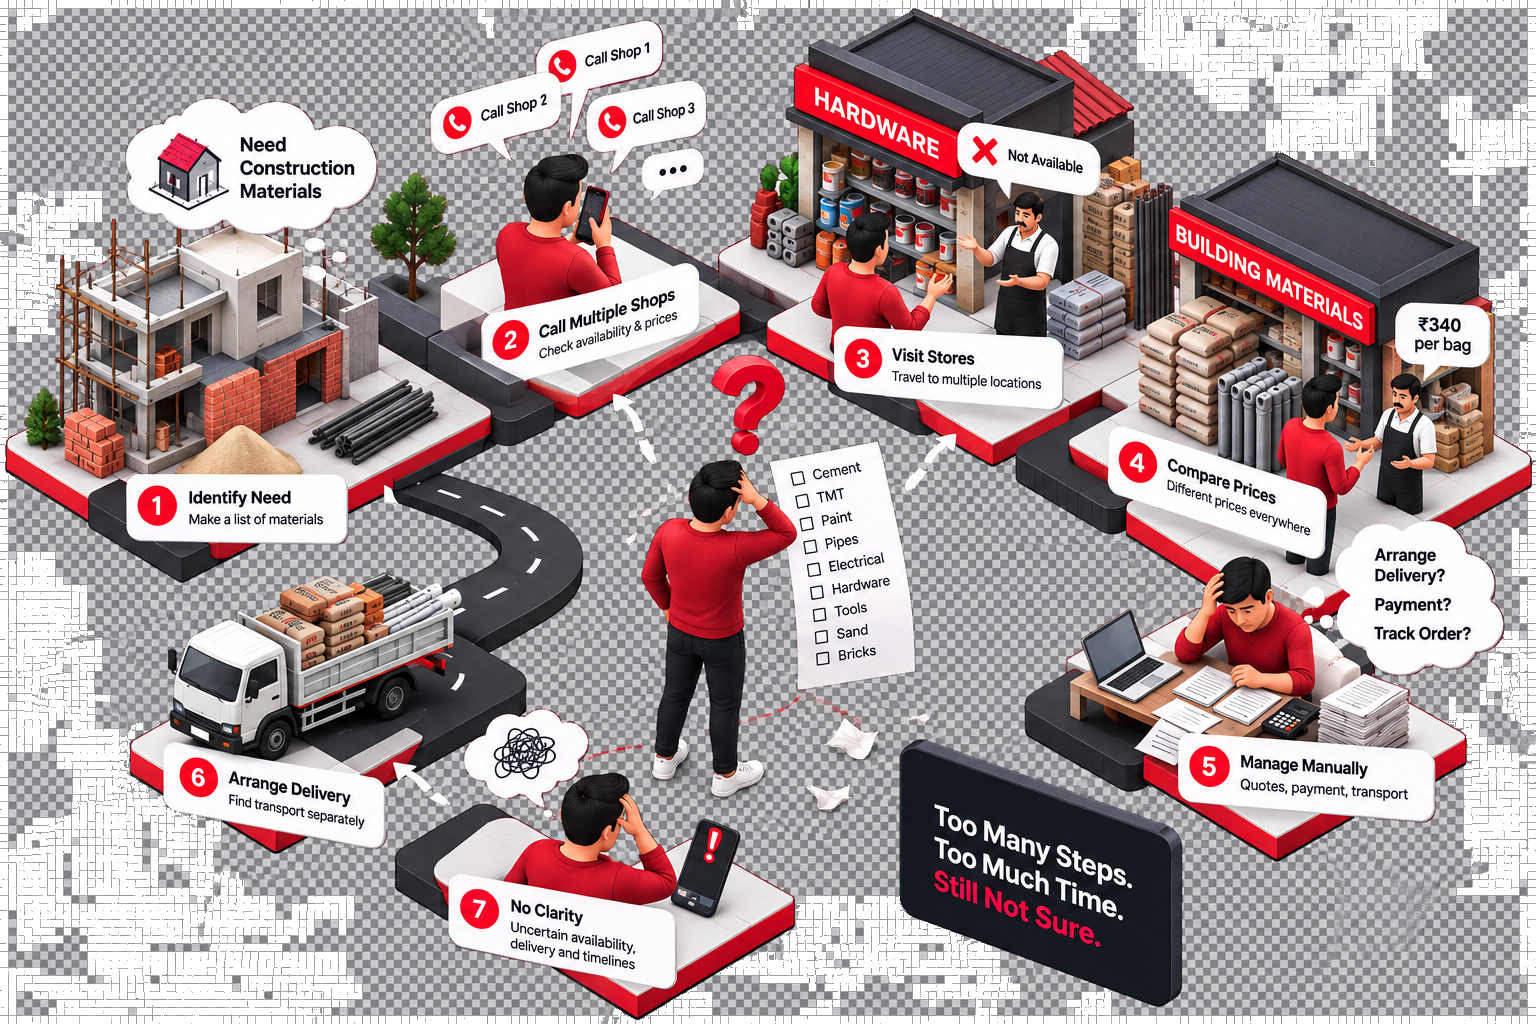
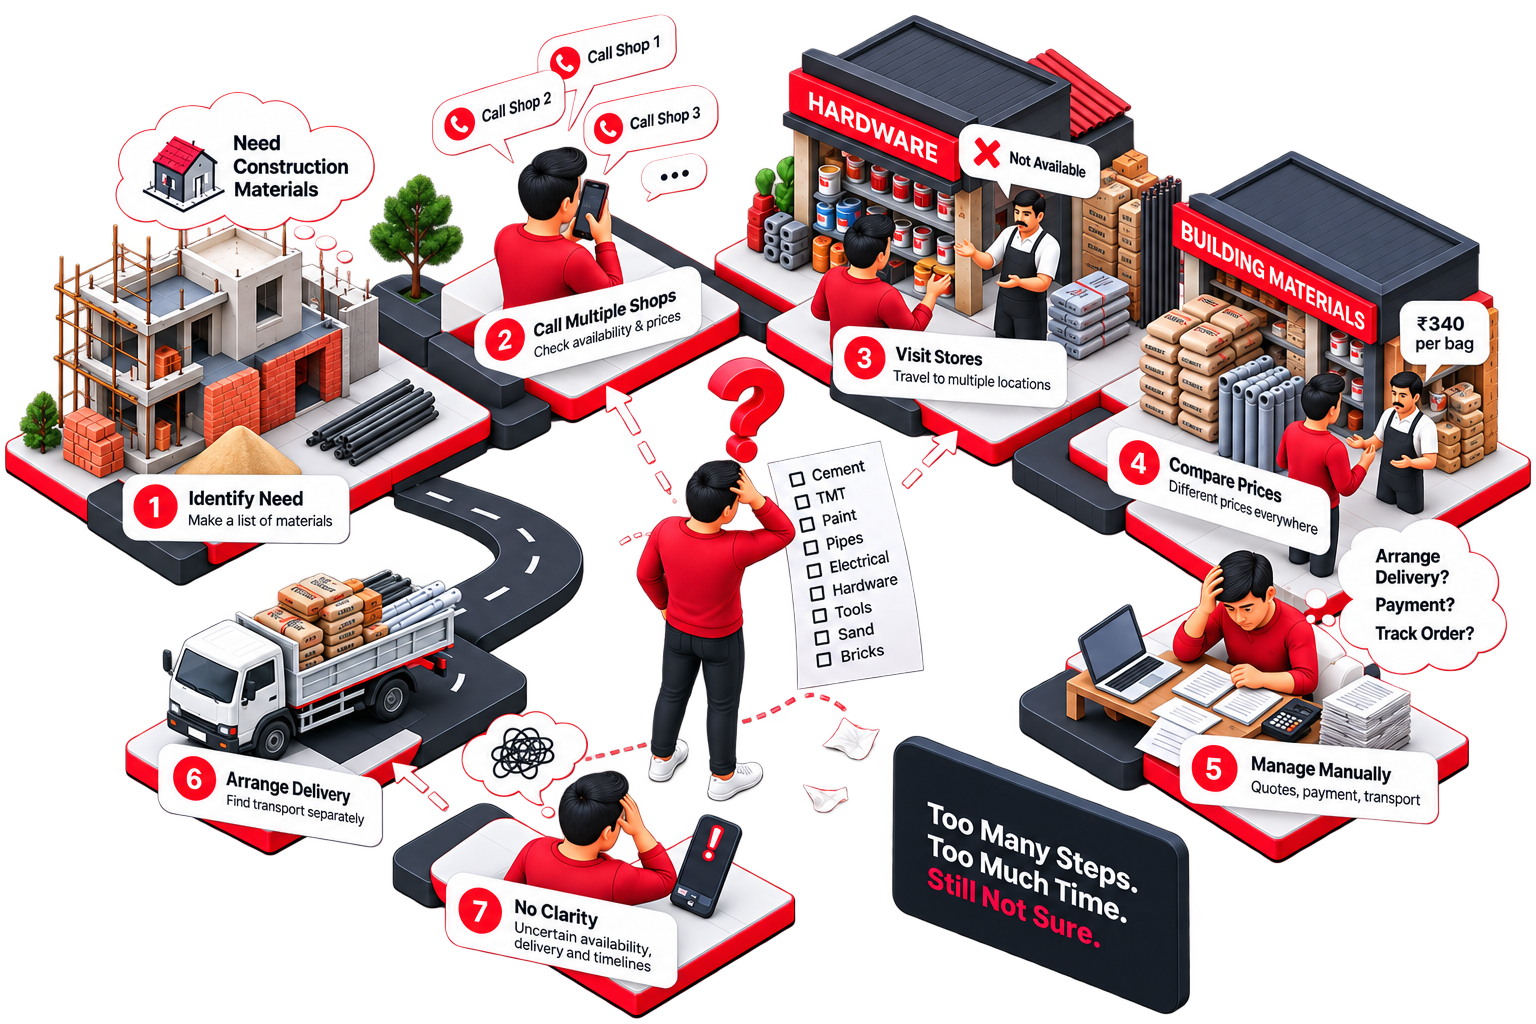
up1

diff --git a/src/sections/ProfessionalSection.tsx b/src/sections/ProfessionalSection.tsx
@@ -6,44 +6,53 @@ import Button from '@/components/Button'
 import { getProfessionalBenefits } from '@/data/benefits'
 import { useLanguage } from '@/i18n'
 
-export default function ProfessionalSection() {
+interface ProfessionalSectionProps {
+  compact?: boolean
+}
+
+export default function ProfessionalSection({ compact = false }: ProfessionalSectionProps) {
   const { t } = useLanguage()
   const professionalBenefits = getProfessionalBenefits(t)
+  const benefits = compact ? professionalBenefits.slice(0, 4) : professionalBenefits
 
   return (
-    <section id="professionals" className="py-20 sm:py-24 lg:py-32">
+    <section id="professionals" className={compact ? 'py-14 sm:py-16 lg:py-20' : 'py-20 sm:py-24 lg:py-32'}>
       <div className="container-flash">
-        <div className="mb-10 flex flex-col justify-between gap-8 lg:flex-row lg:items-end">
+        <div className={`flex flex-col justify-between gap-8 lg:flex-row lg:items-end ${compact ? 'mb-8' : 'mb-10'}`}>
           <SectionHeader eyebrow={t.professional.eyebrow} title={t.professional.title} subtitle={t.professional.subtitle} />
           <Button to="/professionals" icon>
             {t.common.joinAsProfessional}
           </Button>
         </div>
 
-        <RevealStagger className="mb-10 flex flex-wrap gap-2.5" itemSelector=":scope > *" stagger={0.04}>
-          {t.professional.roles.map((r) => (
-            <span key={r} className="rounded-full border border-black/[0.08] bg-white px-4 py-2 text-sm font-semibold text-brand-dark">
-              {r}
-            </span>
-          ))}
-        </RevealStagger>
+        {!compact && (
+          <>
+            <RevealStagger className="mb-10 flex flex-wrap gap-2.5" itemSelector=":scope > *" stagger={0.04}>
+              {t.professional.roles.map((r) => (
+                <span key={r} className="rounded-full border border-black/[0.08] bg-white px-4 py-2 text-sm font-semibold text-brand-dark">
+                  {r}
+                </span>
+              ))}
+            </RevealStagger>
 
-        <Reveal className="mb-12 flex justify-center">
-          <img
-            src="/images/professionals.png"
-            alt="Your customers. Your referral. Your rewards. — the FLASHiT Pro referral app"
-            loading="lazy"
-            className="w-full max-w-4xl"
-          />
-        </Reveal>
+            <Reveal className="mb-12 flex justify-center">
+              <img
+                src="/images/professionals.png"
+                alt="Your customers. Your referral. Your rewards. — the FLASHiT Pro referral app"
+                loading="lazy"
+                className="w-full max-w-4xl"
+              />
+            </Reveal>
+          </>
+        )}
 
-        <Reveal className="mb-12 rounded-card border border-brand-red/20 bg-brand-red/5 p-6 sm:p-8">
+        <Reveal className={`rounded-card border border-brand-red/20 bg-brand-red/5 p-6 sm:p-8 ${compact ? 'mb-8' : 'mb-12'}`}>
           <p className="text-base font-semibold text-brand-dark sm:text-lg">{t.professional.badge}</p>
         </Reveal>
 
         <div className="grid grid-cols-1 gap-10 lg:grid-cols-2">
           <RevealStagger className="grid grid-cols-1 gap-3 sm:grid-cols-2" itemSelector=":scope > *" stagger={0.04}>
-            {professionalBenefits.map((b) => (
+            {benefits.map((b) => (
               <div key={b} className="flex items-start gap-2.5 rounded-btn border border-black/[0.06] bg-white p-4">
                 <span className="mt-0.5 h-1.5 w-1.5 shrink-0 rounded-full bg-brand-red" />
                 <span className="text-sm leading-relaxed text-brand-dark/75">{b}</span>

diff --git a/src/sections/SupplierSection.tsx b/src/sections/SupplierSection.tsx
@@ -6,37 +6,44 @@ import Button from '@/components/Button'
 import { getSupplierBenefits } from '@/data/benefits'
 import { useLanguage } from '@/i18n'
 
-export default function SupplierSection() {
+interface SupplierSectionProps {
+  compact?: boolean
+}
+
+export default function SupplierSection({ compact = false }: SupplierSectionProps) {
   const { t } = useLanguage()
   const supplierBenefits = getSupplierBenefits(t)
+  const benefits = compact ? supplierBenefits.slice(0, 3) : supplierBenefits
 
   return (
-    <section id="suppliers" className="bg-brand-dark py-20 text-white sm:py-24 lg:py-32">
+    <section id="suppliers" className={`bg-brand-dark text-white ${compact ? 'py-14 sm:py-16 lg:py-20' : 'py-20 sm:py-24 lg:py-32'}`}>
       <div className="container-flash">
-        <div className="mb-12 flex flex-col justify-between gap-8 lg:flex-row lg:items-end">
+        <div className={`flex flex-col justify-between gap-8 lg:flex-row lg:items-end ${compact ? 'mb-8' : 'mb-12'}`}>
           <SectionHeader light eyebrow={t.supplier.eyebrow} title={t.supplier.title} subtitle={t.supplier.subtitle} />
           <Button to="/suppliers" icon>
             {t.common.becomeSupplier}
           </Button>
         </div>
 
-        <Reveal className="mb-12 overflow-hidden rounded-card">
-          <img
-            src="/images/suppliers.png"
-            alt="FLASHiT connecting local suppliers with customers, professionals and delivery riders"
-            loading="lazy"
-            className="w-full object-cover"
-          />
-        </Reveal>
+        {!compact && (
+          <Reveal className="mb-12 overflow-hidden rounded-card">
+            <img
+              src="/images/suppliers.png"
+              alt="FLASHiT connecting local suppliers with customers, professionals and delivery riders"
+              loading="lazy"
+              className="w-full object-cover"
+            />
+          </Reveal>
+        )}
 
-        <Reveal className="mb-12 rounded-card border border-brand-red/25 bg-white/[0.04] p-6 sm:p-8" delay={0.1}>
+        <Reveal className={`rounded-card border border-brand-red/25 bg-white/[0.04] p-6 sm:p-8 ${compact ? 'mb-8' : 'mb-12'}`} delay={0.1}>
           <p className="text-xl font-bold sm:text-2xl">
             {t.supplier.quote1} <span className="text-brand-red">{t.supplier.quote2}</span>
           </p>
         </Reveal>
 
         <RevealStagger className="grid grid-cols-1 gap-5 sm:grid-cols-2 lg:grid-cols-3" itemSelector=":scope > *" stagger={0.06}>
-          {supplierBenefits.map((b) => (
+          {benefits.map((b) => (
             <FeatureCard key={b.title} {...b} dark />
           ))}
         </RevealStagger>

diff --git a/src/sections/CustomerSection.tsx b/src/sections/CustomerSection.tsx
@@ -7,15 +7,20 @@ import { getCustomerBenefits } from '@/data/benefits'
 import { getProductCategories } from '@/data/categories'
 import { useLanguage } from '@/i18n'
 
-export default function CustomerSection() {
+interface CustomerSectionProps {
+  compact?: boolean
+}
+
+export default function CustomerSection({ compact = false }: CustomerSectionProps) {
   const { t } = useLanguage()
   const customerBenefits = getCustomerBenefits(t)
   const productCategories = getProductCategories(t)
+  const benefits = compact ? customerBenefits.slice(0, 4) : customerBenefits
 
   return (
-    <section id="customers" className="py-20 sm:py-24 lg:py-32">
+    <section id="customers" className={compact ? 'py-14 sm:py-16 lg:py-20' : 'py-20 sm:py-24 lg:py-32'}>
       <div className="container-flash">
-        <div className="mb-12 flex flex-col justify-between gap-8 lg:flex-row lg:items-end">
+        <div className={`flex flex-col justify-between gap-8 lg:flex-row lg:items-end ${compact ? 'mb-10' : 'mb-12'}`}>
           <SectionHeader eyebrow={t.customer.eyebrow} title={t.customer.title} subtitle={t.customer.subtitle} />
           <div className="flex flex-wrap gap-3">
             <Button to="/customer" icon>
@@ -27,17 +32,19 @@ export default function CustomerSection() {
           </div>
         </div>
 
-        <Reveal className="mb-14 overflow-hidden rounded-card">
-          <img
-            src="/images/customers.png"
-            alt="Everything you need to build, repair and maintain — delivered from local suppliers through FLASHiT"
-            loading="lazy"
-            className="w-full object-cover"
-          />
-        </Reveal>
+        {!compact && (
+          <Reveal className="mb-14 overflow-hidden rounded-card">
+            <img
+              src="/images/customers.png"
+              alt="Everything you need to build, repair and maintain — delivered from local suppliers through FLASHiT"
+              loading="lazy"
+              className="w-full object-cover"
+            />
+          </Reveal>
+        )}
 
         <RevealStagger
-          className="mb-14 flex flex-wrap gap-3"
+          className={`flex flex-wrap gap-3 ${compact ? 'mb-8' : 'mb-14'}`}
           itemSelector=":scope > .cat-chip"
           stagger={0.05}
         >
@@ -53,7 +60,7 @@ export default function CustomerSection() {
         </RevealStagger>
 
         <RevealStagger className="grid grid-cols-1 gap-5 sm:grid-cols-2 lg:grid-cols-4" itemSelector=":scope > *" stagger={0.06}>
-          {customerBenefits.map((b) => (
+          {benefits.map((b) => (
             <FeatureCard key={b.title} {...b} />
           ))}
         </RevealStagger>

diff --git a/src/pages/Contact.tsx b/src/pages/Contact.tsx
@@ -18,21 +18,31 @@ export default function Contact() {
               <Mail size={18} className="mt-0.5 shrink-0 text-brand-red" aria-hidden="true" />
               <div>
                 <p className="text-sm font-bold text-brand-dark">{c.email}</p>
-                <p className="text-sm text-brand-dark/60">{c.emailValue}</p>
+                <p className="text-sm text-brand-dark/60">
+                  <a href={`mailto:${c.emailValue}`} className="hover:text-brand-dark">
+                    {c.emailValue}
+                  </a>
+                </p>
               </div>
             </div>
             <div className="flex items-start gap-3">
               <Phone size={18} className="mt-0.5 shrink-0 text-brand-red" aria-hidden="true" />
               <div>
                 <p className="text-sm font-bold text-brand-dark">{c.phone}</p>
-                <p className="text-sm text-brand-dark/60">{c.phoneValue}</p>
+                {c.phoneValues.map((number) => (
+                  <p key={number} className="text-sm text-brand-dark/60">
+                    <a href={`tel:${number.replace(/\s+/g, '')}`} className="hover:text-brand-dark">
+                      {number}
+                    </a>
+                  </p>
+                ))}
               </div>
             </div>
             <div className="flex items-start gap-3">
               <MapPin size={18} className="mt-0.5 shrink-0 text-brand-red" aria-hidden="true" />
               <div>
-                <p className="text-sm font-bold text-brand-dark">{c.base}</p>
-                <p className="text-sm text-brand-dark/60">{c.baseValue}</p>
+                <p className="text-sm font-bold text-brand-dark">{c.address}</p>
+                <p className="text-sm text-brand-dark/60">{c.addressValue}</p>
               </div>
             </div>
           </Reveal>

diff --git a/src/i18n/hi.ts b/src/i18n/hi.ts
@@ -550,11 +550,11 @@ export const hi: Translations = {
       title: 'आइए मिलकर लोकल कॉमर्स बनाएं।',
       subtitle: 'कोई सवाल है, पार्टनरशिप का विचार है, या FLASHiT को अपने शहर में लाना चाहते हैं? हमें थोड़ा बताएं।',
       email: 'ईमेल',
-      emailValue: 'hello@flashit.in',
+      emailValue: 'harshraj71018@gmail.com',
       phone: 'फ़ोन',
-      phoneValue: '+91 00000 00000',
-      base: 'आधार',
-      baseValue: 'भारत',
+      phoneValues: ['+91 6203367789', '+91 620660425'],
+      address: 'पता',
+      addressValue: 'पालकोट रोड, गुमला, झारखंड 835207',
     },
     join: {
       eyebrow: 'FLASHiT जॉइन करें',

diff --git a/src/i18n/en.ts b/src/i18n/en.ts
@@ -569,11 +569,11 @@ export const en: Translations = {
       title: "Let's build local commerce together.",
       subtitle: 'Have a question, a partnership idea, or want to bring FLASHiT to your city? Tell us a little about it.',
       email: 'Email',
-      emailValue: 'hello@flashit.in',
+      emailValue: 'harshraj71018@gmail.com',
       phone: 'Phone',
-      phoneValue: '+91 00000 00000',
-      base: 'Base',
-      baseValue: 'India',
+      phoneValues: ['+91 6203367789', '+91 620660425'],
+      address: 'Address',
+      addressValue: 'Palkot Road, Gumla, Jharkhand 835207',
     },
     join: {
       eyebrow: 'Join FLASHiT',

diff --git a/src/pages/Home.tsx b/src/pages/Home.tsx
@@ -28,11 +28,11 @@ export default function Home() {
       <BrandTypewriter />
       <WhatIsFlashit />
       <Problem />
-      <CustomerSection />
+      <CustomerSection compact />
       <CustomerJourney />
-      <SupplierSection />
+      <SupplierSection compact />
       <SupplierWorkflow />
-      <ProfessionalSection />
+      <ProfessionalSection compact />
       <ReferralFlow />
       <BulkOrderSection />
       <EcosystemSection />

diff --git a/src/i18n/types.ts b/src/i18n/types.ts
@@ -332,9 +332,9 @@ export interface Translations {
       email: string
       emailValue: string
       phone: string
-      phoneValue: string
-      base: string
-      baseValue: string
+      phoneValues: [string, string]
+      address: string
+      addressValue: string
     }
     join: {
       eyebrow: string
